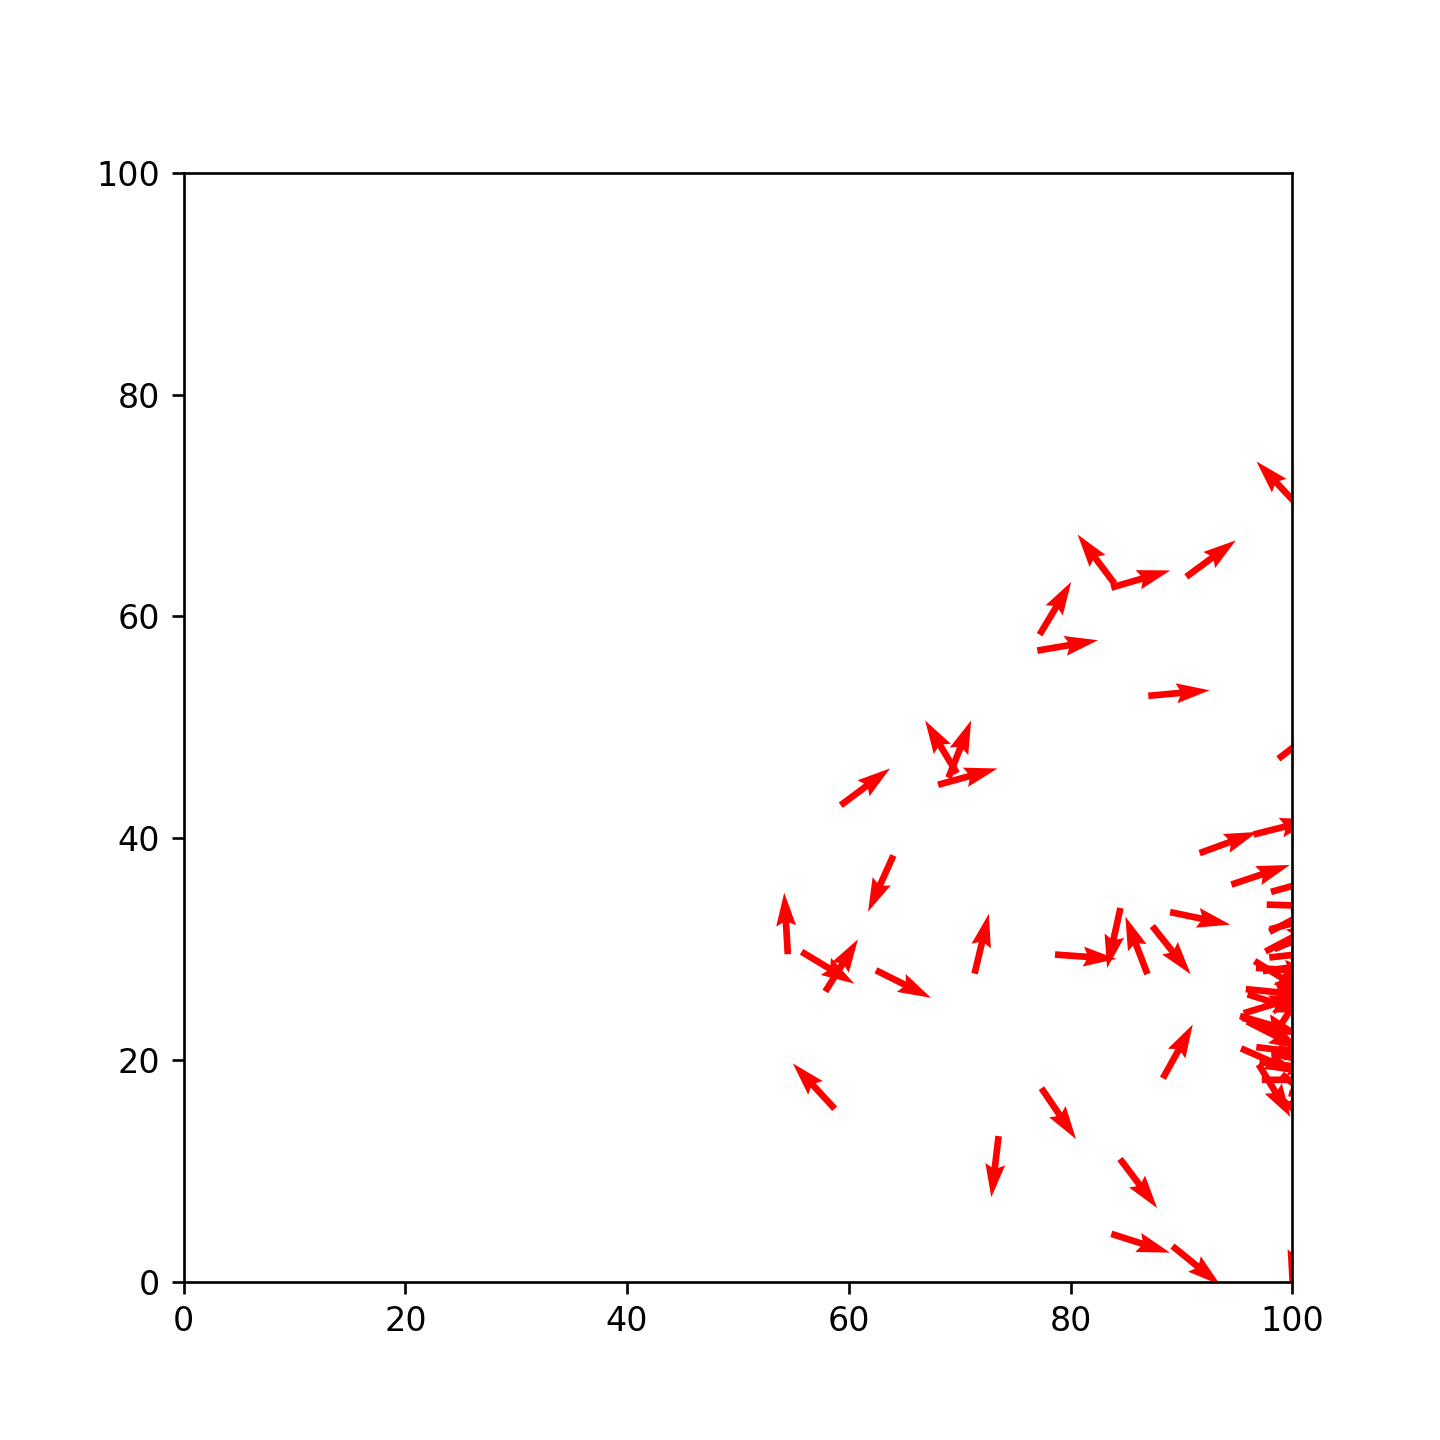
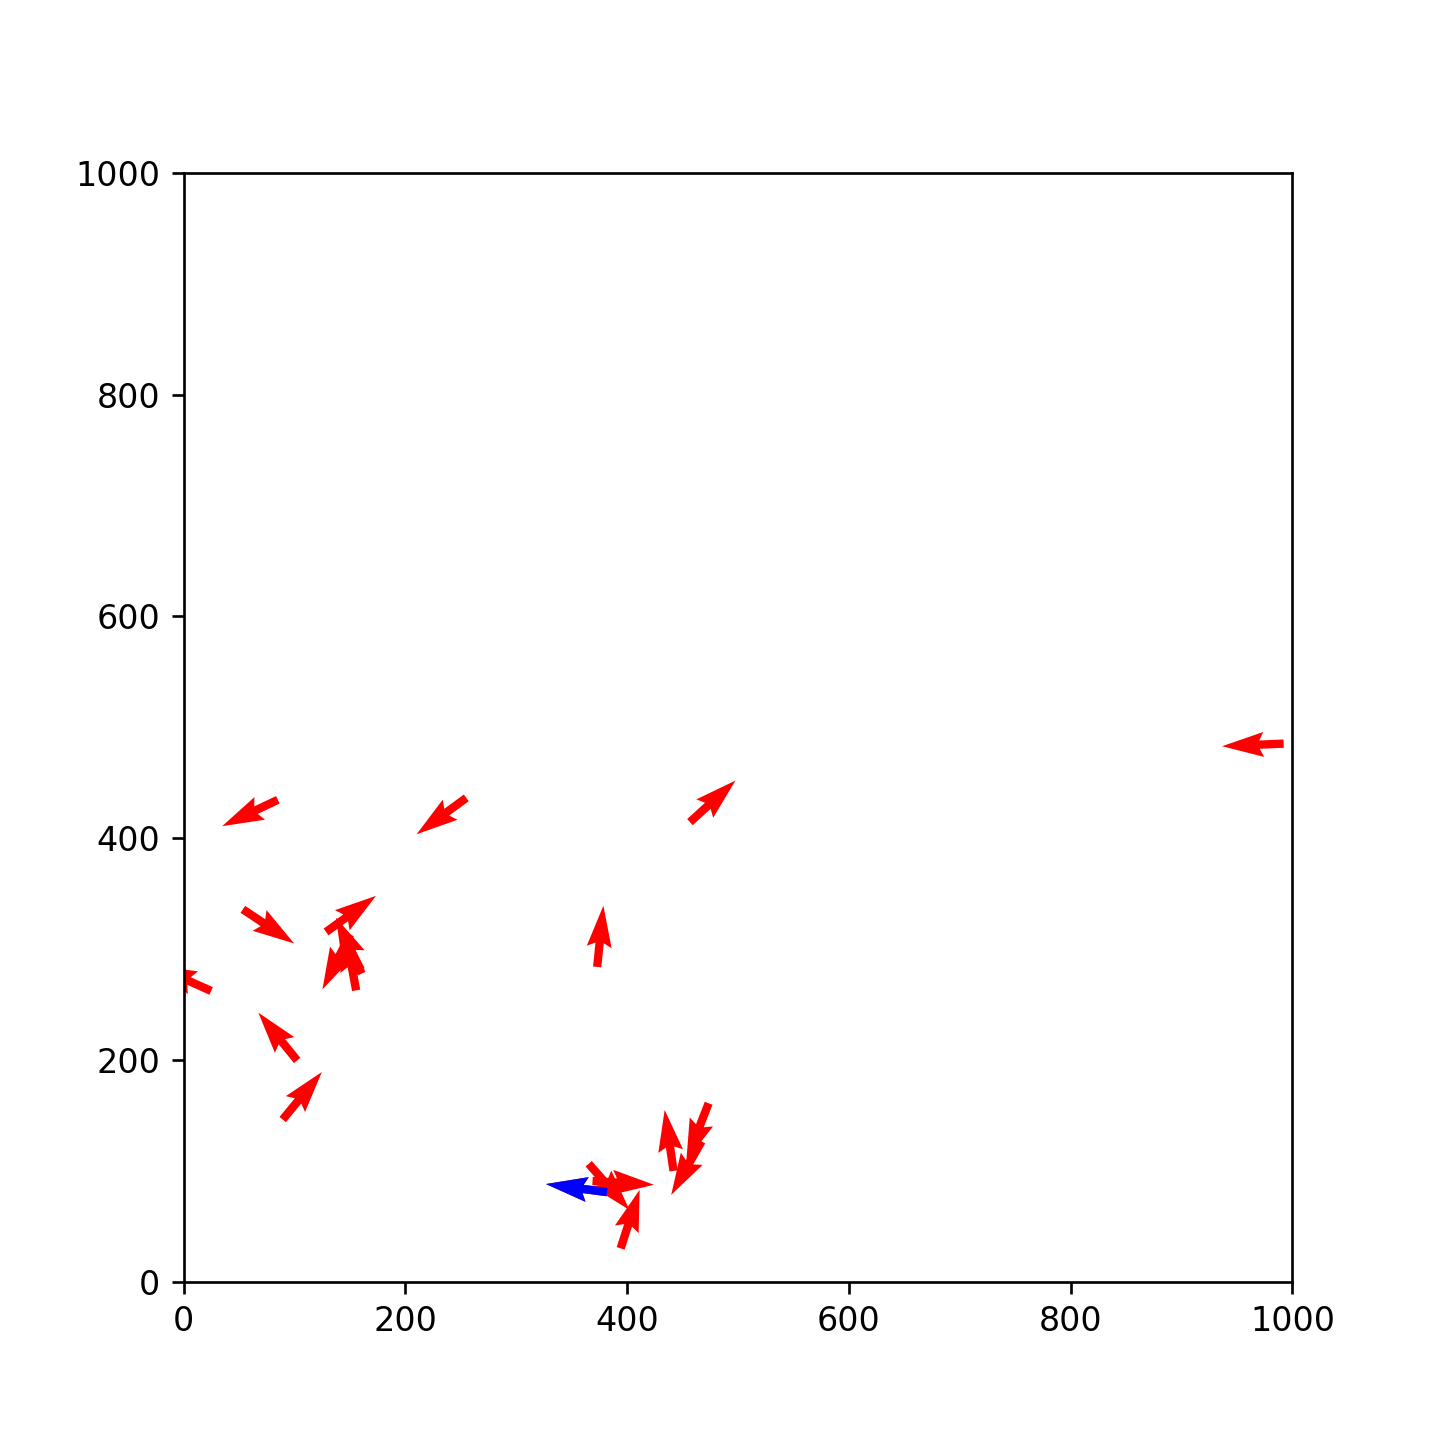
they just twitch but the attraction semi works

diff --git a/agent.py b/agent.py
@@ -2,58 +2,125 @@ import numpy as np
 import random
 from typing import List
 import math
+from math import cos, sin, pi, atan2
 
 # Simulation parameters
-v0           = 5      # velocity
-eta          = 0.6      # random fluctuation in angle (in radians)
-L            = 10        # size of box
-R            = 0.5      # interaction radius
-dt           = 0.1      # time step
-Nt           = 200      # number of time steps
-N            = 20      # number of birds
+S = 1      # velocity
+eta = 0.6      # random fluctuation in angle (in radians)
+L = 100        # size of box
+R = 0.5      # interaction radius
+dt = 0.1      # time step
+Nt = 200      # number of time steps
 plotRealTime = True
-k            = 0.5        # Attraction factor
-a            = 1        # agent is visible to other agent in time a
+k = 0.5        # Attraction factor
+a = 1        # agent is visible to other agent in time a
+
 
 class Agent:
-    theta  = random.randint(-1 * int(np.pi), int(np.pi))
-    def __init__(self,x,y) -> None:
+
+    def __init__(self, x, y) -> None:
         self.x = x
         self.y = y
-        self.c = np.array([self.x,self.y])
-        
-        self.vx = v0 * np.cos(self.theta)
-        self.vy = v0 * np.sin(self.theta)
+        self.c = np.array([self.x, self.y])
 
-    def move(self):    
-        self.x += self.vx * dt
-        self.y += self.vy * dt
-       
-    def update_velocity(self):
-        self.vx = v0 * np.cos(self.theta)
-        self.vy = v0 * np.sin(self.theta)
-        
+        self.theta = round(random.uniform(-math.pi, math.pi), 2)
+        # self.vx = S * np.cos(self.theta)
+        # self.vy = S * np.sin(self.theta)
+        self.V = np.array([S * cos(self.theta), S * sin(self.theta)])
+        self.W = self.theta
+
+    def move(self):
+        # as a reminder this is off the previous self.theta
+        # theta_t+1 = theta_t + W * dt
+        # x_t+1 = x_t + S*cos(theta_t) * dt
+        # the reason this is done with the old theta is that
+        # self.x += self.x + S*cos(self.theta) * dt
+        # self.y += self.y + S*sin(self.theta) * dt
+        # self.V = self.theta + self.W * dt  # this is the new theta
+        self.x = self.x + self.V[0] * dt
+        self.y = self.y + self.V[1] * dt
+        self.V[0] = S * np.cos(self.theta)
+        self.V[1] = S * np.sin(self.theta)
+        self.theta = self.theta + self.W * dt
+
     def update_angular_velocity(self, foreigners):
-        info_dict = {'info1': np.array([0,0]), 'info2': np.array([0,0]), 'scalar_constant': 1}
+        repulsion_info = np.array([0.0, 0.0])
+        sum_of_V = np.array([0.0, 0.0])
+        attraction_info = np.array([0.0, 0.0])
+        # info2 = np.array([0.0, 0.0])
+        # info1 = np.array([0.0, 0.0])
+        # attraction_scalar_constant = 1.0
         for agent in foreigners:
             distance = math.dist(self.c, agent.c)
-            
-            try:
-                p = min(1, 1/distance)
-            except ZeroDivisionError as e:
-                p = 1
-                
-            if np.random.default_rng().binomial(1, p, 1) > 0:
-                info_dict['info1'] += (agent.c - self.c)
-                info_dict['scalar_constant'] += np.linalg.norm(agent.c - self.c)
-                
-        u3 = info_dict['info1']/info_dict['scalar_constant']
-        w = k * ((np.arctan2(u3[1], u3[0])) - self.theta)
-        
-        self.theta = w
-        
+
+            if 1 > distance:
+                # do the repulsion calculation
+                repulsion_info = (self.c - agent.c) / \
+                    (np.linalg.norm(self.c - agent.c))**2
+            elif 8 > distance:
+                # do the orientation calculation
+                sum_of_V += agent.V
+            elif 80 > distance:
+                # do the attraction calculation
+                attraction_info += (agent.c - self.c)
+            else:
+                # do nothing
+                x = 0
+
+            # elif distance > 3:
+            #     # orientation calculation
+            #     sum_of_V += np.array([agent.vx, agent.vy])
+            # else:
+            #     # repulsion calculation
+            #     info_repulsion = (self.c - agent.c) / \
+            #         (np.linalg.norm(self.c - agent.c))**2
+            #     info_dict['info1'] += info_repulsion
+
+            # this will be helpful for the bottom of the repulsion:                 attraction_scalar_constant += np.linalg.norm(
+                # agent.c - self.c)
+
+        u3 = attraction_info/np.linalg.norm(attraction_info) if np.linalg.norm(attraction_info) != 0 else np.array([0.0, 0.0])
+        u2 = (self.V + sum_of_V)/np.linalg.norm(self.V + sum_of_V) if np.linalg.norm(self.V + sum_of_V) != 0 else np.array([0.0, 0.0])
+        u1 = repulsion_info
+        U = u1 + u2 + u3
+        self.W=k * ((atan2(U[1], U[0])) - self.theta)
+
+        # self.theta = self.theta + w * dt
 
 
-   
+# class Agent:
+#     theta  = random.randint(-1 * int(np.pi), int(np.pi))
+#     def __init__(self,x,y) -> None:
+#         self.x = x
+#         self.y = y
+#         self.c = np.array([self.x,self.y])
 
- 
+#         self.vx = S * np.cos(self.theta)
+#         self.vy = S * np.sin(self.theta)
+
+#     def move(self):
+#         self.x += self.vx * dt
+#         self.y += self.vy * dt
+
+#     def update_velocity(self):
+#         self.vx = S * np.cos(self.theta)
+#         self.vy = S * np.sin(self.theta)
+
+#     def update_angular_velocity(self, foreigners):
+#         info_dict = {'info1': np.array([0,0]), 'info2': np.array([0,0]), 'scalar_constant': 1}
+#         for agent in foreigners:
+#             distance = math.dist(self.c, agent.c)
+
+#             try:
+#                 p = min(1, 1/distance)
+#             except ZeroDivisionError as e:
+#                 p = 1
+
+#             if np.random.default_rng().binomial(1, p, 1) > 0:
+#                 info_dict['info1'] += (agent.c - self.c)
+#                 info_dict['scalar_constant'] += np.linalg.norm(agent.c - self.c)
+
+#         u3 = info_dict['info1']/info_dict['scalar_constant']
+#         w = k * ((np.arctan2(u3[1], u3[0])) - self.theta)
+
+#         self.theta = w

diff --git a/main.py b/main.py
@@ -6,58 +6,61 @@ from agent import Agent
 from typing import List
 
 # Simulation parameters
-L            = 100        # size of box
-R            = 0.5      # interaction radius
-dt           = 0.01      # time step
-Nt           = 200      # number of time steps
-N            = 100      # number of birds
+L = 1000        # size of box
+dt = 0.1      # time step
+Nt = 200      # number of time steps
+N = 20    # number of agents
 plotRealTime = True
 
 # Simulation Main Loop
+
+
 def main():
-    
-    # Create birds
-	agent = Agent(random.randint(1,(L/2)), random.randint(1,(L/2)))
-	agents = [Agent(random.randint(1,(L/2)), random.randint(1,(L/2))) for i in range(N)]
-	foreigners = [other_agent for other_agent in agents if other_agent is not agent]
-   
+
+    # Create agents
+    # initiating an agent in the bottom left quarter of the window
+    # agent = Agent(random.randint(1, (L/2)), random.randint(1, (L/2)))
+    agents = [Agent(random.randint(1, (L/2)), random.randint(1, (L/2))) for i in range(N)]
+    foreigners = [other_agent for other_agent in agents]  # this basically removes the duplication of the starting agent
+    # other_agent for other_agent in agents if other_agent is not agent]  # this basically removes the duplication of the starting agent
+
     # Prep figure
-	fig = plt.figure(figsize=(6,6), dpi=96)
-	ax = plt.gca()
- 
-	for i in range(Nt):
+    fig = plt.figure(figsize=(6, 6), dpi=96)
+    ax = plt.gca()
 
-		# move
-		for agent in agents:
-			agent.move()
+    for i in range(Nt):
 
-		# List of x and y values of birds to put in quiver
-		x = [agent.x for agent in agents]
-		y = [agent.y for agent in agents]
-		vx = [agent.vx for agent in agents]
-		vy = [agent.vy for agent in agents]
+        # List of x and y values of agents to put in quiver
+        x = [agent.x % L for agent in agents]
+        y = [agent.y % L for agent in agents]
+        vx = [agent.V[0] for agent in agents]
+        vy = [agent.V[1] for agent in agents]
 
-		# plot in real time
-		if plotRealTime or (i == Nt-1):
-			plt.cla()
-			plt.quiver(x,y,vx,vy,color='r')
-			ax.set(xlim=(0, L), ylim=(0, L))
-			ax.set_aspect('equal')	
-			plt.pause(0.001)
-	
-		# update velocities
-		for agent in agents:
-			agent.update_velocity()
-			
-		# Update angular velocity 
-		for agent in agents:
-			agent.update_angular_velocity(foreigners)
-   
-			
-	# Save figure
-	plt.savefig('activematter.png',dpi=240)
-	plt.show()
- 
+        testx = x[0]
+        testy = y[0]
+        testvx = vx[0]
+        testvy = vy[0]
+        # plot all agents
+        if plotRealTime or (i == Nt-1):
+            plt.cla()
+            plt.quiver(x, y, vx, vy, color='r')
+            plt.quiver(testx, testy, testvx, testvy, color='b')
+            ax.set(xlim=(0, L), ylim=(0, L))
+            ax.set_aspect('equal')
+            plt.pause(0.001)
+
+        # Update angular velocity
+        for agent in agents:
+            agent.update_angular_velocity([foreigner for foreigner in agents if foreigner is not agent])
+
+            # move
+        for agent in agents:
+            agent.move()
+
+    # Save figure
+    plt.savefig('activematter.png', dpi=240)
+    plt.show()
+
+
 if __name__ == '__main__':
     main()
-
